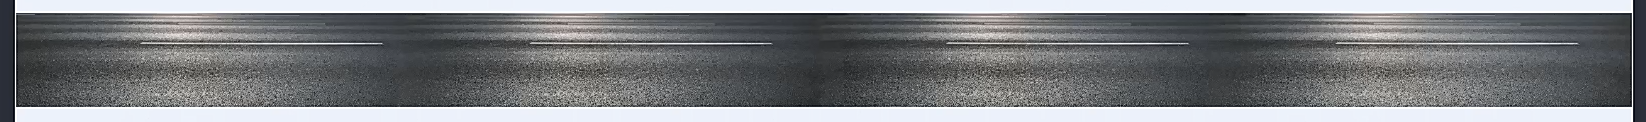
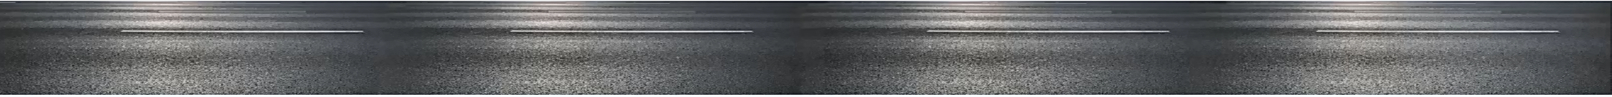
add some img and changed index-2

diff --git a/index2.css b/index2.css
@@ -1,0 +1,42 @@
+@import"../CSSreset/CSSRESET.css";
+.main-bg{
+width: 100%;
+height: 100vh;
+background-image: url(./img-gif/SKY-2.png);
+background-position: center;
+background-size:cover;
+position: relative;
+overflow: hidden;
+}
+.road{
+    width: 500%;
+    height: 100px;
+    background-image: url(./img-gif/road.png);
+    position: absolute;
+    bottom:0;
+    right: 0;
+    left: 0;
+    animation: road 2s linear infinite;
+    display: block;
+    z-index: 1;
+}
+@keyframes road {
+    0%{transform: translateX(0px);}
+    100%{transform: translateX(-100px);}
+}
+.city{
+    width: 500%;
+    height: 192px;
+    background-image: url(./img-gif/468049-removebg-preview\ \(1\).png);
+    position: absolute;
+    bottom: 19px;
+    right: 0px;
+    left: 0px;
+    animation: city 1s linear infinite;
+    z-index: 1;
+    background-repeat: repeat-x;
+}
+@keyframes city{
+    0%{transform: translateX(0px);}
+    100%{transform: translateX(-100px);}
+}

diff --git a/index-2.html b/index-2.html
@@ -1,0 +1,15 @@
+<!DOCTYPE html>
+<html lang="en">
+<head>
+    <meta charset="UTF-8">
+    <meta name="viewport" content="width=device-width, initial-scale=1.0">
+    <link rel="stylesheet" href="./index2.css">
+    <title>Document</title>
+</head>
+<body>
+    <div class="main-bg">
+        <div class="road"></div>
+        <div class="city"></div>
+    </div>
+</body>
+</html>
